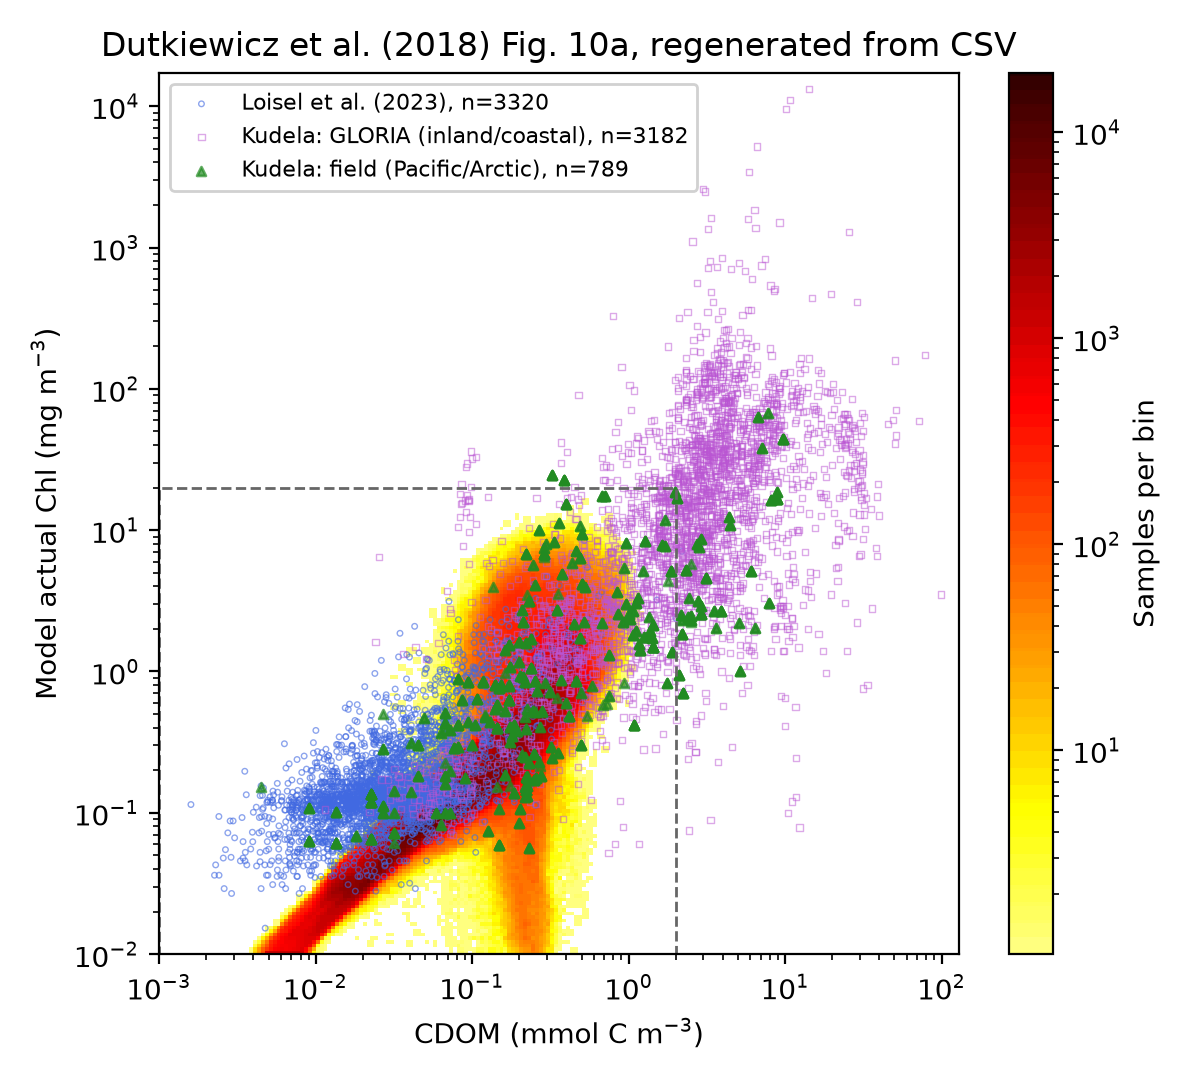
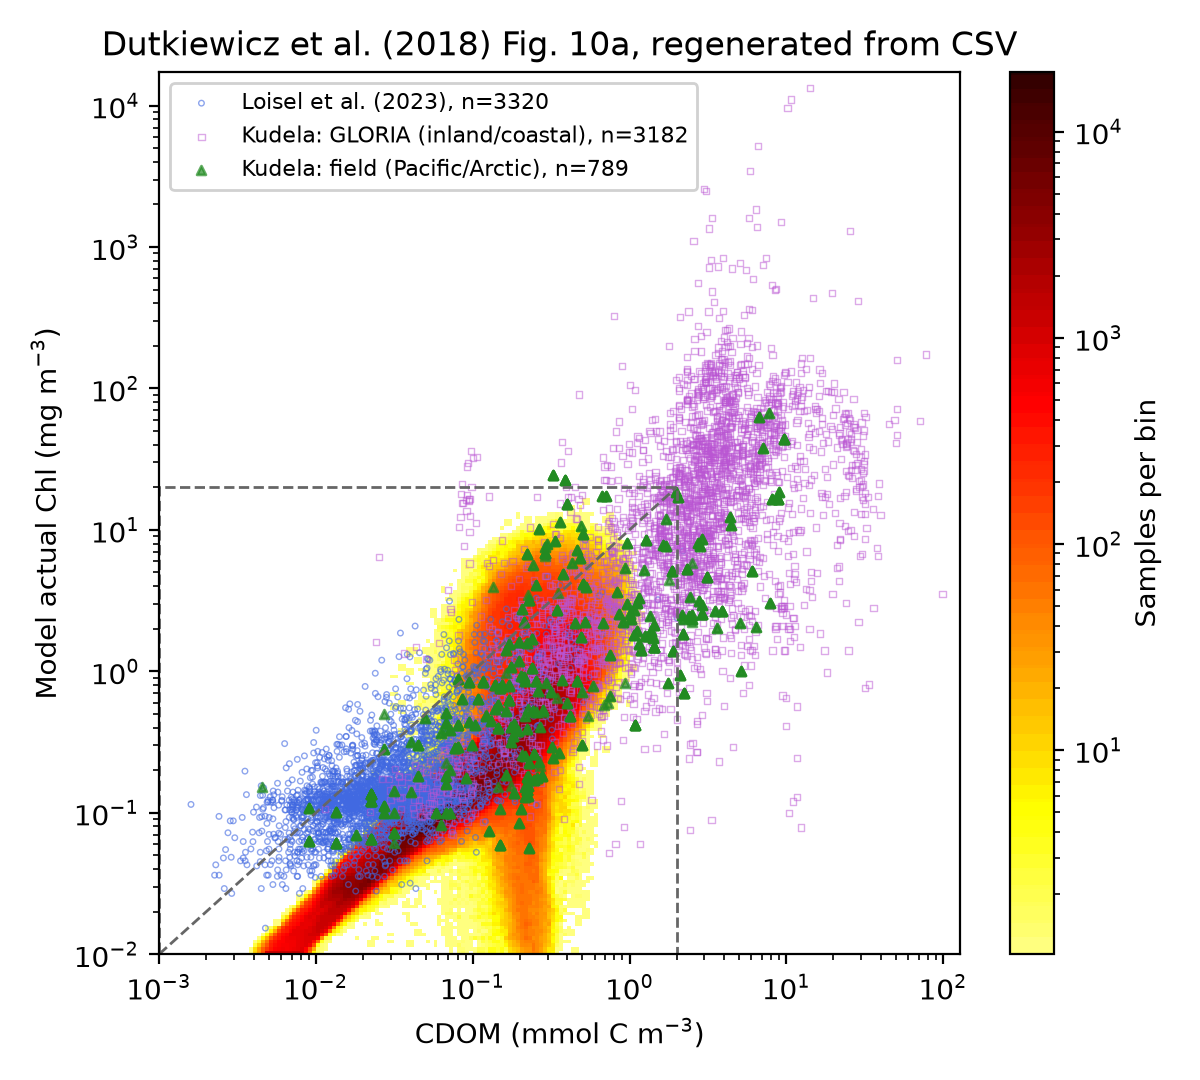
1:1 line

diff --git a/robust/dutkiewicz2018_fig10.py b/robust/dutkiewicz2018_fig10.py
@@ -475,6 +475,11 @@ def plot():
         print(f'{RAPHE_CSV} not found; run the "raphe" command to '
               'create it -- plotting without the overlay')
 
+    # Add 1:1 line
+    ax.plot([10.0 ** X_LOG_RANGE[0], 10.0 ** X_LOG_RANGE[1]],
+            [10.0 ** Y_LOG_RANGE[0], 10.0 ** Y_LOG_RANGE[1]],
+            color='0.4', linestyle='--', linewidth=1)
+
     if any_overlay:
         ax.legend(loc='upper left', framealpha=0.9, fontsize=8)
     fig.tight_layout()
